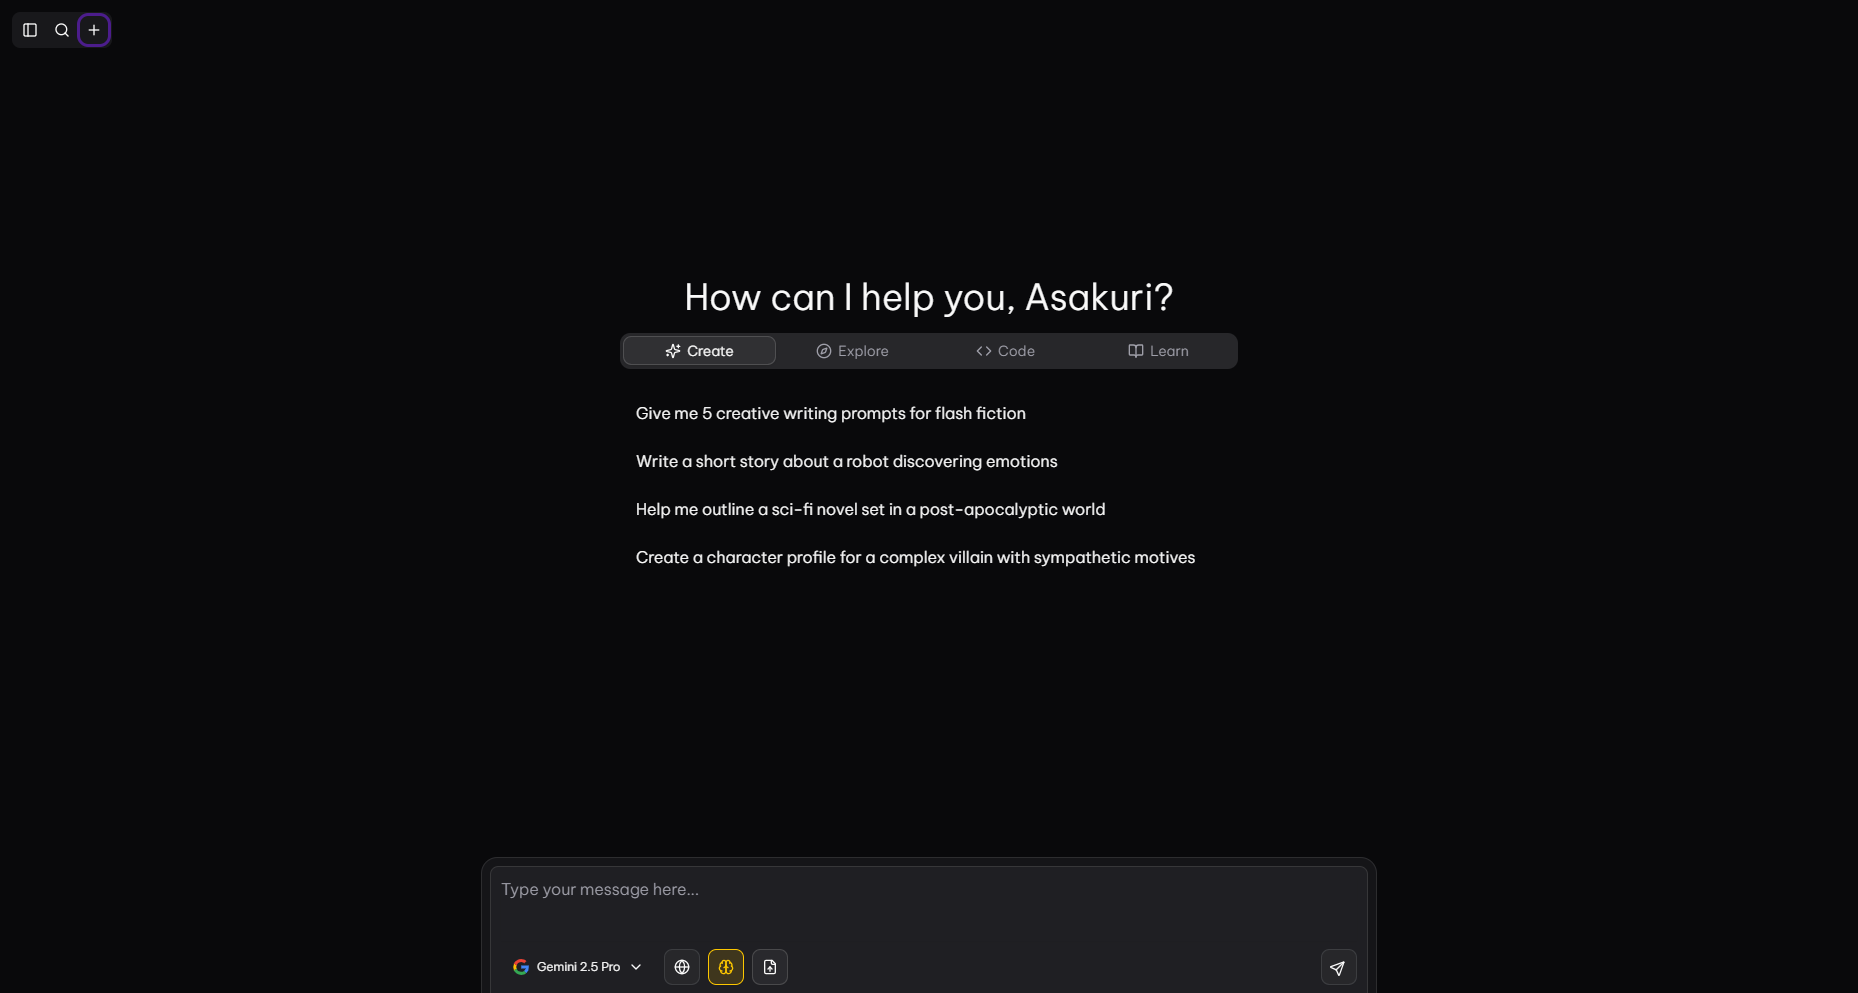
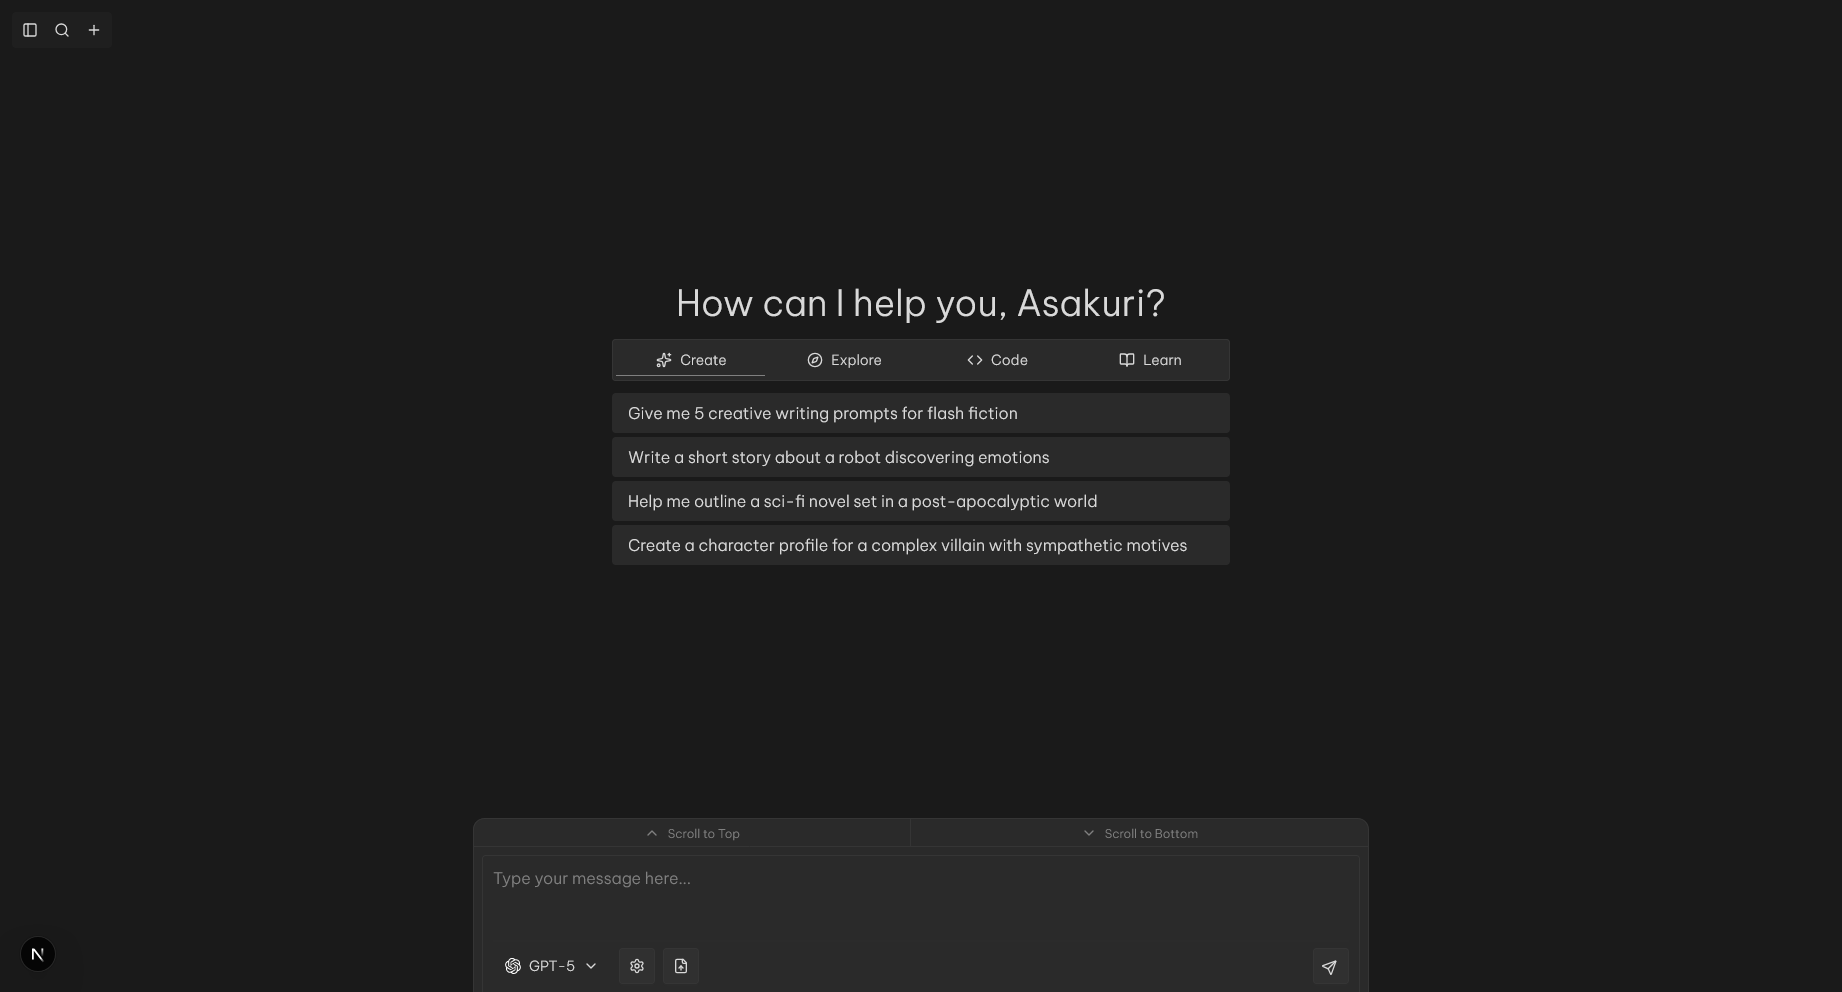
feat(threads): add search, pinned ordering, and inline rename
- Add composite and search indexes to threads:
  - by_userId_updatedAt
  - by_userId_pinned_updatedAt
  - search_title (search on title with userId, pinned filters)
- Enhance getAllThreads:
  - Support search via full-text index and optional limit
  - No query: return all pinned + first N non-pinned by updatedAt desc
  - With query: return pinned matches + up to N non-pinned matches
- UI:
  - Add sidebar search input (deferred)
  - Persist thread list to localStorage only when not searching
  - Enable inline thread rename (double-click, commit on blur/Enter, Esc cancels)
  - Hide actions while editing
- Fix(statistics): robustly extract day from _creationTime when building
  activity map
- Update screenshots

BREAKING CHANGE: getAllThreads now takes an args object with optional
query (string) and limit (number).

diff --git a/src/app/_components/threads/thread-items.tsx b/src/app/_components/threads/thread-items.tsx
@@ -1,9 +1,11 @@
 import { api } from "@/convex/_generated/api";
+import { useEffect, useRef, useState } from "react";
 
 import { GitBranchIcon, Loader2Icon, PinIcon, PinOffIcon } from "lucide-react";
 import { NavLink, useNavigate } from "react-router";
 
 import { ButtonWithTip } from "../ui/button";
+import { Input } from "../ui/input";
 import { ThreadDeleteDialog } from "./thread-delete-dialog";
 
 import { getConvexReactClient } from "@/lib/convex/client";
@@ -14,6 +16,23 @@ const convexClient = getConvexReactClient();
 
 export function ThreadItem({ thread }: { thread: Thread }) {
   const navigate = useNavigate();
+  const [isEditing, setIsEditing] = useState<boolean>(false);
+  const [title, setTitle] = useState<string>(thread.title);
+  const inputRef = useRef<HTMLInputElement>(null);
+
+  useEffect(() => {
+    if (isEditing) {
+      inputRef.current?.focus();
+      inputRef.current?.select();
+    }
+  }, [isEditing]);
+
+  useEffect(() => {
+    // If the thread title updates externally, ensure local state reflects it when not editing
+    if (!isEditing) {
+      setTitle(thread.title);
+    }
+  }, [thread.title, isEditing]);
 
   async function goToParentThread(event: React.MouseEvent<HTMLButtonElement>) {
     event.stopPropagation();
@@ -22,10 +41,65 @@ export function ThreadItem({ thread }: { thread: Thread }) {
     await navigate(`/chat/${toUUID(thread.branchedFrom!)}`);
   }
 
+  function startEdit(event: React.MouseEvent) {
+    event.preventDefault();
+    event.stopPropagation();
+    setTitle(thread.title);
+    setIsEditing(true);
+  }
+
+  async function commitEdit() {
+    const next = title.trim();
+    if (next.length > 0 && next !== thread.title) {
+      await convexClient.mutation(api.threads.updateThreadTitle, {
+        threadId: thread._id,
+        title: next,
+      });
+    }
+    setIsEditing(false);
+  }
+
+  function cancelEdit() {
+    setIsEditing(false);
+    setTitle(thread.title);
+  }
+
+  function onKeyDown(e: React.KeyboardEvent<HTMLInputElement>) {
+    if (e.key === "Enter") {
+      e.preventDefault();
+      void commitEdit();
+    } else if (e.key === "Escape") {
+      e.preventDefault();
+      cancelEdit();
+    }
+  }
+
+  if (isEditing) {
+    return (
+      <Input
+        ref={inputRef}
+        value={title}
+        onChange={(e) => setTitle(e.target.value)}
+        onBlur={() => void commitEdit()}
+        onKeyDown={onKeyDown}
+        onClick={(e) => e.stopPropagation()}
+        aria-label="Rename thread"
+        className="h-6 py-1 text-sm"
+      />
+    );
+  }
+
   return (
     <NavLink
       to={`/chat/${toUUID(thread._id)}`}
       title={thread.title}
+      onDoubleClick={startEdit}
+      onClick={(e) => {
+        if (isEditing) {
+          e.preventDefault();
+          e.stopPropagation();
+        }
+      }}
       className={({ isActive }) =>
         cn(
           "group/thread relative isolate flex overflow-hidden rounded-md px-3 py-1.5",
@@ -62,7 +136,7 @@ export function ThreadItem({ thread }: { thread: Thread }) {
         </div>
       </div>
 
-      <ThreadActions thread={thread} />
+      {!isEditing && <ThreadActions thread={thread} />}
     </NavLink>
   );
 }

diff --git a/src/app/_components/threads/thread-sidebar.tsx b/src/app/_components/threads/thread-sidebar.tsx
@@ -4,12 +4,13 @@ import { useQuery } from "@tanstack/react-query";
 
 import { useVirtualizer } from "@tanstack/react-virtual";
 import { useDocumentTitle } from "@uidotdev/usehooks";
-import { useEffect, useMemo, useRef } from "react";
+import { useDeferredValue, useEffect, useMemo, useRef, useState } from "react";
 import { NavLink, useParams } from "react-router";
 
 import { ThreadItem } from "./thread-items";
 import { ThreadUserProfile } from "./thread-user-profile";
 
+import { Input } from "@/components/ui/input";
 import { Sidebar, SidebarContent, SidebarFooter, SidebarHeader } from "@/components/ui/sidebar";
 import { TypographyP } from "@/components/ui/typography";
 
@@ -26,6 +27,9 @@ type VirtualizedThread =
   | { type: "thread"; data: Thread };
 
 export function ThreadSidebar() {
+  const [query, setQuery] = useState<string>("");
+  const deferredQuery = useDeferredValue(query);
+
   return (
     <Sidebar
       variant="inset"
@@ -48,7 +52,17 @@ export function ThreadSidebar() {
           <span className="line-clamp-1 w-full">Create new thread</span>
         </NavLink>
 
-        <ThreadsContent />
+        <div className="mx-2">
+          <Input
+            value={query}
+            onChange={(e) => setQuery(e.target.value)}
+            placeholder="Search threads..."
+            aria-label="Search threads"
+            className="h-8"
+          />
+        </div>
+
+        <ThreadsContent query={deferredQuery} />
       </SidebarContent>
 
       <SidebarFooter>
@@ -59,11 +73,11 @@ export function ThreadSidebar() {
   );
 }
 
-function ThreadsContent() {
+function ThreadsContent({ query }: { query: string }) {
   const parentRef = useRef<HTMLDivElement>(null);
   const { threadId } = useParams<{ threadId?: string }>();
 
-  const { data: threads } = useQuery(convexQuery(api.threads.getAllThreads, {}));
+  const { data: threads } = useQuery(convexQuery(api.threads.getAllThreads, { query }));
   const setThreads = useChatStore((state) => state.setThreads);
 
   const threadTitle = threads?.find((thread) => thread._id === fromUUID(threadId))?.title;
@@ -119,10 +133,13 @@ function ThreadsContent() {
 
   useEffect(() => {
     if (threads) {
-      localStorage.setItem(THREAD_LOCAL_STORAGE_KEY, JSON.stringify(threads));
+      // Persist only the base list (no active search) to avoid polluting cache with filtered results
+      if (!query) {
+        localStorage.setItem(THREAD_LOCAL_STORAGE_KEY, JSON.stringify(threads));
+      }
       setThreads(threads);
     }
-  }, [threads, setThreads]);
+  }, [threads, setThreads, query]);
 
   const rowVirtualizer = useVirtualizer({
     count: virtualizedThreads.length,

diff --git a/convex/threads.ts b/convex/threads.ts
@@ -57,22 +57,61 @@ export const branchThread = mutation({
 });
 
 export const getAllThreads = query({
-  args: {},
-  handler: async (ctx) => {
+  args: {
+    query: v.optional(v.string()),
+    limit: v.optional(v.number()),
+  },
+  handler: async (ctx, args) => {
     const user = await ctx.auth.getUserIdentity();
     if (!user) return [];
 
-    const data = await ctx.db
-      .query("threads")
-      .withIndex("by_userId", (q) => q.eq("userId", user.subject))
-      .collect();
+    const limit = args.limit ?? 200;
 
-    return data
-      .sort((a, b) => b.updatedAt - a.updatedAt)
-      .map((thread) => ({
+    // No search query: return all pinned + first N non-pinned ordered by updatedAt desc
+    if (!args.query || args.query.trim() === "") {
+      const pinned = await ctx.db
+        .query("threads")
+        .withIndex("by_userId_pinned_updatedAt", (q) =>
+          q.eq("userId", user.subject).eq("pinned", true),
+        )
+        .order("desc")
+        .collect();
+
+      const nonPinned = await ctx.db
+        .query("threads")
+        .withIndex("by_userId_updatedAt", (q) => q.eq("userId", user.subject))
+        .order("desc")
+        .filter((q) => q.neq(q.field("pinned"), true))
+        .take(limit);
+
+      return [...pinned, ...nonPinned].map((thread) => ({
         ...thread,
         pinned: thread.pinned ?? false,
       }));
+    }
+
+    // With search query: include only pinned that match + up to N non-pinned that match
+    const search = args.query.trim();
+
+    const pinnedMatches = await ctx.db
+      .query("threads")
+      .withSearchIndex("search_title", (q) =>
+        q.search("title", search).eq("userId", user.subject).eq("pinned", true),
+      )
+      .take(1024);
+
+    const nonPinnedMatches = await ctx.db
+      .query("threads")
+      .withSearchIndex("search_title", (q) =>
+        q.search("title", search).eq("userId", user.subject),
+      )
+      .filter((q) => q.neq(q.field("pinned"), true))
+      .take(limit);
+
+    return [...pinnedMatches, ...nonPinnedMatches].map((thread) => ({
+      ...thread,
+      pinned: thread.pinned ?? false,
+    }));
   },
 });
 

diff --git a/convex/statistics.ts b/convex/statistics.ts
@@ -50,8 +50,12 @@ export const getStatistics = query({
 
     const activityMap = messagesFromDatabase.reduce(
       (acc: Record<string, number>, m: Doc<"messages">) => {
-        const date = new Date(m._creationTime).toISOString().split("T")[0];
-        acc[date] = (acc[date] || 0) + 1;
+        const parts = new Date(m._creationTime).toISOString().split("T");
+        const day = parts[0];
+        if (day) {
+          const prev = acc[day] ?? 0;
+          acc[day] = prev + 1;
+        }
         return acc;
       },
       {} as Record<string, number>,

diff --git a/convex/schema.ts b/convex/schema.ts
@@ -12,7 +12,10 @@ export default defineSchema({
     status: v.optional(
       v.union(v.literal("pending"), v.literal("complete"), v.literal("streaming")),
     ),
-  }).index("by_userId", ["userId"]),
+  }).index("by_userId", ["userId"])
+    .index("by_userId_updatedAt", ["userId", "updatedAt"])
+    .index("by_userId_pinned_updatedAt", ["userId", "pinned", "updatedAt"])
+    .searchIndex("search_title", { searchField: "title", filterFields: ["userId", "pinned"] }),
 
   attachments: defineTable({
     id: v.string(),
